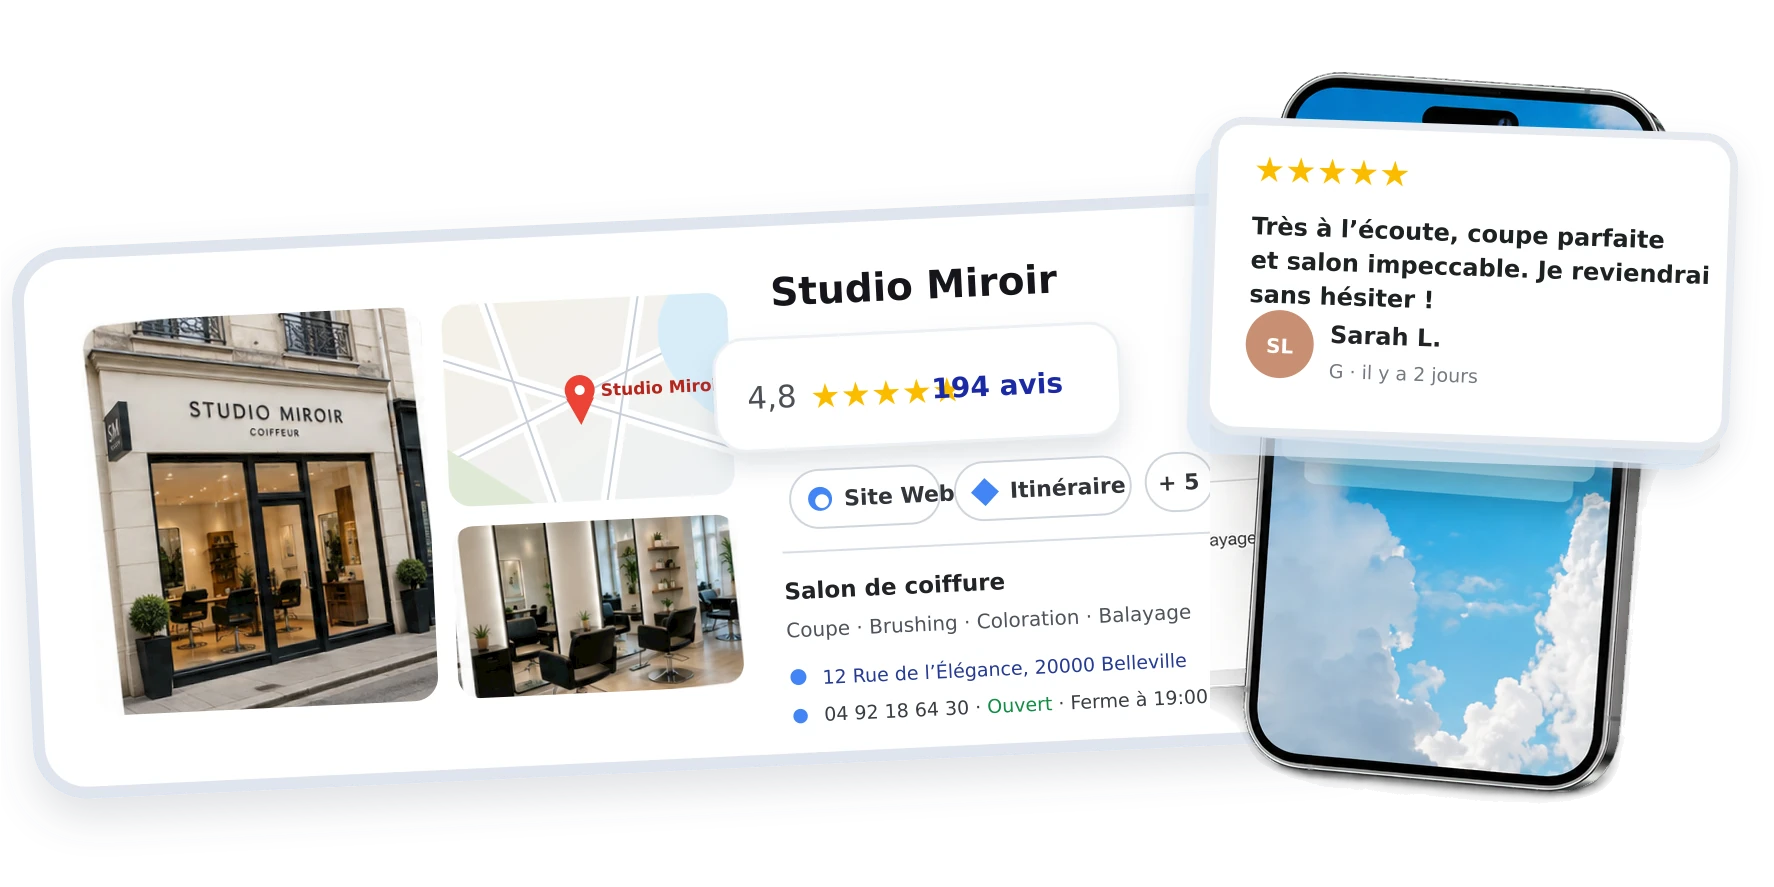
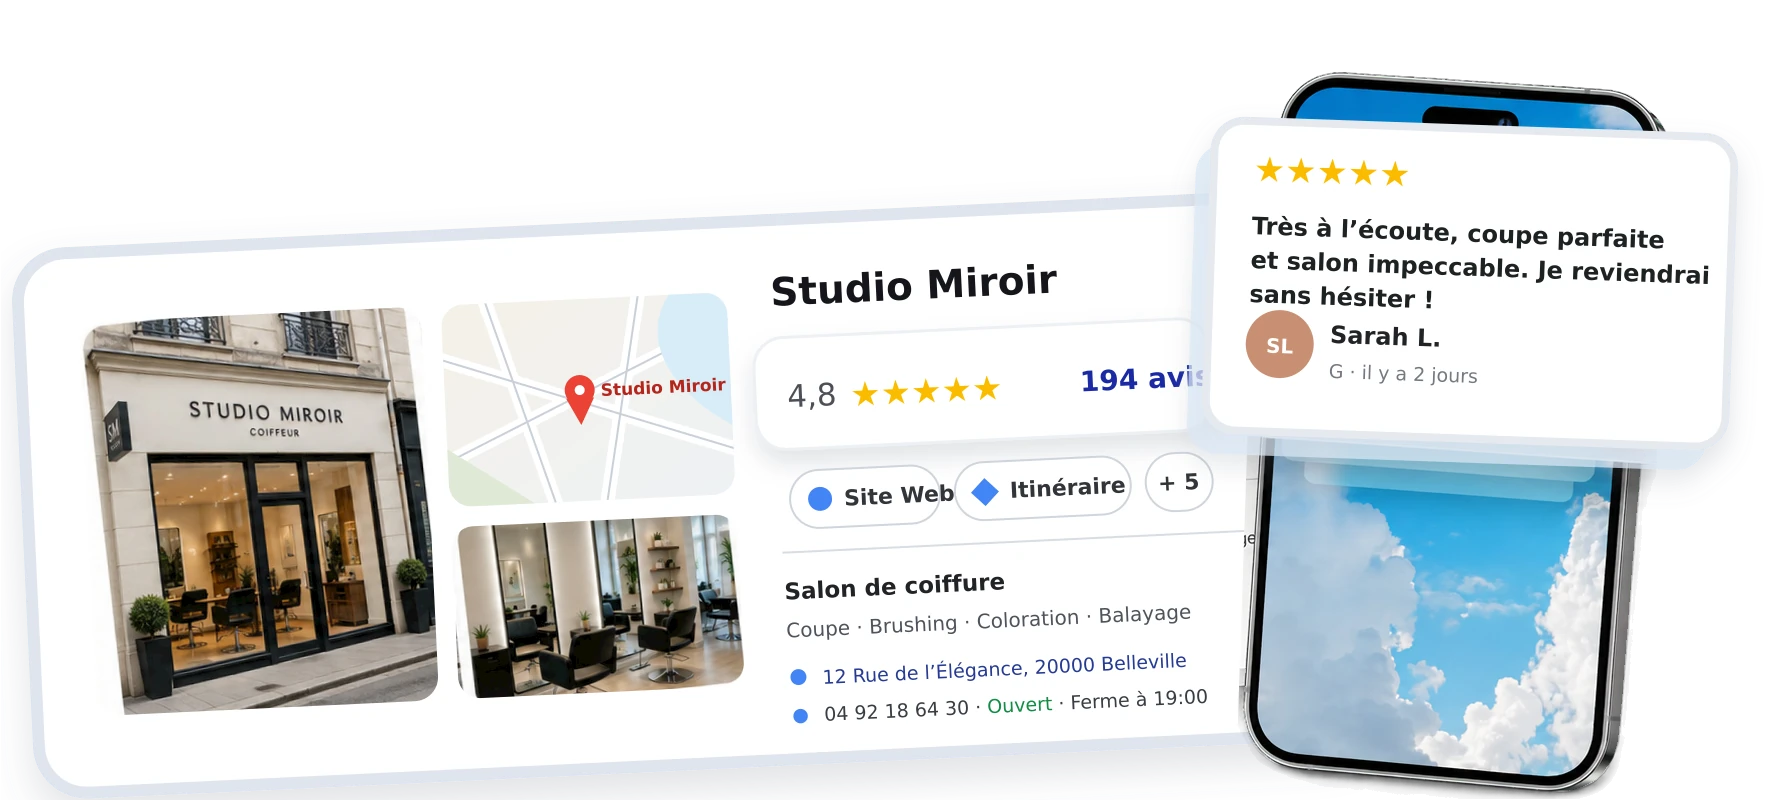
Affine la composition des visuels métiers

diff --git a/assets/theme.css b/assets/theme.css
@@ -1082,11 +1082,11 @@ p{margin:0;text-wrap:pretty}
 .lp-hero__sectors button:hover{transform:translateY(-1px);border-color:rgba(17,18,23,.22);background:#fff;color:#111217}
 .lp-hero__sectors button:focus-visible{outline:3px solid rgba(66,133,244,.3);outline-offset:3px}
 .lp-hero__sectors button[aria-selected="true"]{background:#111217;color:#fff;border-color:#111217;box-shadow:0 12px 28px rgba(17,18,23,.16)}
-.lp-hero__sector-showcase{position:relative;width:min(1280px,100%);margin:14px auto 0;min-height:clamp(330px,48vw,640px);display:grid;place-items:center;overflow:visible}
+.lp-hero__sector-showcase{position:relative;width:min(1280px,100%);margin:0 auto;display:grid;place-items:center;overflow:visible}
 .lp-hero__sector-panel{grid-area:1/1;width:100%;margin:0;display:grid;place-items:center}
 .lp-hero__sector-panel[hidden]{display:none}
 .lp-hero__sector-panel.is-active{animation:lp-sector-in .42s cubic-bezier(.2,.72,.2,1) both}
-.lp-hero__sector-image{display:block;width:100%;height:auto;max-height:640px;object-fit:contain;object-position:center;transform:translateY(clamp(22px,5vw,96px))}
+.lp-hero__sector-image{display:block;width:100%;height:auto;object-fit:contain;object-position:center}
 @keyframes lp-sector-in{from{opacity:0;transform:translateY(10px) scale(.985)}to{opacity:1;transform:none}}
 
 .lp-problem{background:var(--c-paper);color:var(--c-ink);padding:clamp(76px,9vw,120px) 0}
@@ -1140,7 +1140,6 @@ p{margin:0;text-wrap:pretty}
 
 @media (max-width:900px){
   .lp-hero{padding-top:116px}
-  .lp-hero__sector-showcase{min-height:clamp(290px,50vw,480px)}
   .lp-problem__steps{grid-template-columns:1fr}
   .lp-problem__step{min-height:0}
   .lp-solution__grid{grid-template-columns:1fr;gap:42px}
@@ -1160,7 +1159,7 @@ p{margin:0;text-wrap:pretty}
   .lp-hero__sectors ul::-webkit-scrollbar{display:none}
   .lp-hero__sectors li{flex:none;scroll-snap-align:center}
   .lp-hero__sectors button{padding:9px 16px;white-space:nowrap}
-  .lp-hero__sector-showcase{width:100%;min-height:clamp(190px,53vw,380px);margin-top:4px}
+  .lp-hero__sector-showcase{width:100%;margin-top:-4px}
   .lp-hero__sector-image{width:100%;max-height:none}
   .lp-problem{padding:66px 0}
   .lp-problem__head h2{font-size:clamp(2.2rem,10vw,3.35rem)}
@@ -1185,7 +1184,6 @@ p{margin:0;text-wrap:pretty}
   .lp-hero__title em{margin-top:5px}
   .lp-hero__trust{display:grid;grid-template-columns:1fr 1fr;justify-items:start;text-align:left}
   .lp-hero__trust li:last-child{grid-column:1/-1}
-  .lp-hero__sector-showcase{min-height:190px}
   .lp-solution__visual{min-height:420px}
   .lp-solution__plaque{width:70%}
   .lp-solution__tap-card{left:10%;bottom:9%;width:88%}
